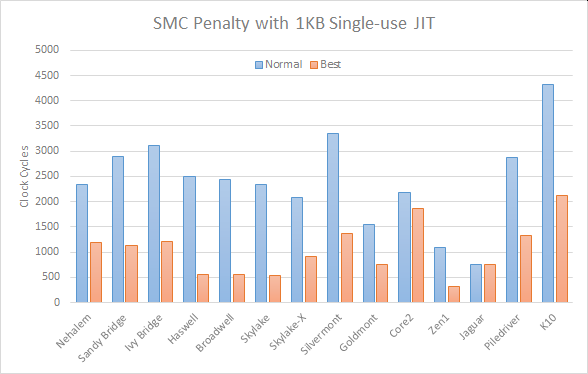
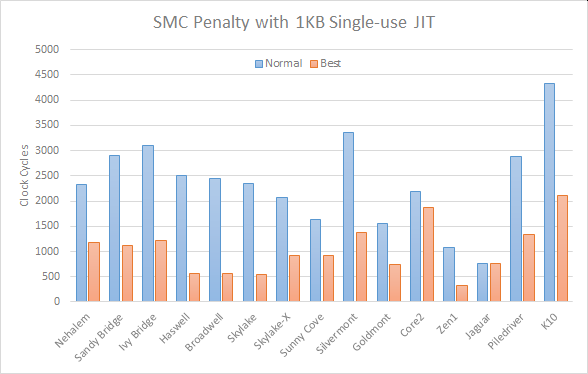
Add Sunny Cove results Thanks to 'anon' (https://www.realworldtech.com/forum/?threadid=192834&curpostid=193016)

diff --git a/README.md b/README.md
@@ -50,12 +50,13 @@ The results, listed below, vary significantly across processor micro-architectur
 
 ### Intel Core
 
-* Alternating between a number of regions, enough to exceed L1 cache size, appears to be the most effective technique ([`jit_16region`](https://github.com/animetosho/jit_smc_test/blob/62b4beb2120e1c3403e7c0f904c0c160434f4160/test.c#L633-L639)), however this could affect the performance of other code.
-* Clearing the target before writing code, is second most effective (slightly worse than above), particularly if you just clear one byte per cacheline ([`jit_clr_1byte`](https://github.com/animetosho/jit_smc_test/blob/62b4beb2120e1c3403e7c0f904c0c160434f4160/test.c#L373-L381))
-* `CLFLUSHOPT` is effective on Skylake/X ([`jit_clflushopt`](https://github.com/animetosho/jit_smc_test/blob/62b4beb2120e1c3403e7c0f904c0c160434f4160/test.c#L525-L533)). Pre-Skylake, copying is also effective ([`jit_memcpy*`](https://github.com/animetosho/jit_smc_test/blob/62b4beb2120e1c3403e7c0f904c0c160434f4160/test.c#L209-L326))
+* Alternating between a number of regions, enough to exceed L1 cache size, appears to be the most effective technique ([`jit_16region`](https://github.com/animetosho/jit_smc_test/blob/62b4beb2120e1c3403e7c0f904c0c160434f4160/test.c#L633-L639)), however this could affect the performance of other code
+* Clearing the target before writing code, is quite effective, and on pre Sunny Cove processors, clearing one byte per cacheline ([`jit_clr_1byte`](https://github.com/animetosho/jit_smc_test/blob/62b4beb2120e1c3403e7c0f904c0c160434f4160/test.c#L373-L381)) is the second most effective technique (slightly worse than above). On Sunny Cove, it seems that clearing the code using a 512-bit `VPSCATERDD` instruction ([`jit_clr_scatter`](https://github.com/animetosho/jit_smc_test/blob/149aaeb17aa240f318de59d978776d8e67c0e13d/test.c#L396-L410)) is the second most effective technique
+* `CLFLUSHOPT` ([`jit_clflushopt`](https://github.com/animetosho/jit_smc_test/blob/62b4beb2120e1c3403e7c0f904c0c160434f4160/test.c#L525-L533)) is effective on CPUs that support it (Skylake and later). Copying is also effective ([`jit_memcpy*`](https://github.com/animetosho/jit_smc_test/blob/62b4beb2120e1c3403e7c0f904c0c160434f4160/test.c#L209-L326))
+* On Sunny Cove, in addition to the `VPSCATERDD` clearing technique mentioned above, copying with 128-bit non-temporal writes ([jit_memcpy_sse2_nt](https://github.com/animetosho/jit_smc_test/blob/149aaeb17aa240f318de59d978776d8e67c0e13d/test.c#L262-L268)), and issuing `CLFLUSHOPT` seem to be roughly as effective. 256-bit and 512-bit non-temporal copies appear to perform worse than 128-bit
 * Clearing the instruction cache with jumps touching all the cachelines, seems to also be effective on Haswell and later ([`jit_jmp32k_unalign`](https://github.com/animetosho/jit_smc_test/blob/62b4beb2120e1c3403e7c0f904c0c160434f4160/test.c#L701-L707)). This may affect performance of other code as it effectively flushes out the instruction cache
 
-Raw results: [Nehalem](results/Nehalem.txt), [Sandy Bridge](<results/Sandy Bridge.txt>), [Ivy Bridge](<results/Ivy Bridge (win64).txt>), [Haswell](results/Haswell.txt), [Broadwell](<results/Broadwell (xen).txt>), [Skylake](results/Skylake.txt), [Skylake-X](<results/Skylake-X (win64).txt>)
+Raw results: [Nehalem](results/Nehalem.txt), [Sandy Bridge](<results/Sandy Bridge.txt>), [Ivy Bridge](<results/Ivy Bridge (win64).txt>), [Haswell](results/Haswell.txt), [Broadwell](<results/Broadwell (xen).txt>), [Skylake](results/Skylake.txt), [Skylake-X](<results/Skylake-X (win64).txt>), [Sunny Cove](<results/Sunny Cove (wsl2).txt>)
 
 ### Intel Atom
 
@@ -116,8 +117,10 @@ From the results I have (and speculation on my part for results I don’t have) 
 
 * If CPU is Intel Core (Nehalem or later):
   * Alternate between areas of memory (enough to be larger than L1 cache size), i.e. JIT to location 1, execute location 1, JIT to location 2, execute location 2 etc, and loop around ([`jit_16region`](https://github.com/animetosho/jit_smc_test/blob/62b4beb2120e1c3403e7c0f904c0c160434f4160/test.c#L633-L639))
-  * If the above is not possible, or the cache hit is unacceptable, clear 1 byte per 64-byte cacheline in the area to be written to, before actually writing instructions ([`jit_clr_1byte`](https://github.com/animetosho/jit_smc_test/blob/62b4beb2120e1c3403e7c0f904c0c160434f4160/test.c#L373-L381))
-* Else if CPU is Intel Atom, Intel Core2, AMD Family 15h or AMD K10:
+  * If the above is not possible, or the cache hit is unacceptable:
+    * if CPU is pre Sunny Cove (Nehalem through to Cannonlake): clear 1 byte per 64-byte cacheline in the area to be written to, before actually writing instructions ([`jit_clr_1byte`](https://github.com/animetosho/jit_smc_test/blob/62b4beb2120e1c3403e7c0f904c0c160434f4160/test.c#L373-L381))
+    * if CPU is Sunny Cove or later: follow the suggestion in the next point (copy code via 128-bit non-temporal writes)
+* Else if CPU is Intel Atom, Intel Core2, Intel Sunny Cove (or later), AMD Family 15h or AMD K10:
   * Write code to a temporary location, then copy to the destination using [non-temporal writes](https://stackoverflow.com/a/37092) ([`jit_memcpy_sse2_nt`](https://github.com/animetosho/jit_smc_test/blob/62b4beb2120e1c3403e7c0f904c0c160434f4160/test.c#L262-L268)). SSE1/2 writes are sufficient, as none of these CPUs have 256-bit load/store ports
 * Else if CPU is AMD Family 17h, 18h or newer AMD:
   * Write code to a temporary location, then copy to the destination (`REP MOVS` seems to be optimal ([`jit_memcpy_movsb`](https://github.com/animetosho/jit_smc_test/blob/62b4beb2120e1c3403e7c0f904c0c160434f4160/test.c#L218-L233)), but `memcpy` probably works fine too ([`jit_memcpy`](https://github.com/animetosho/jit_smc_test/blob/62b4beb2120e1c3403e7c0f904c0c160434f4160/test.c#L209-L215)))
@@ -143,3 +146,6 @@ Note that you may need to also add `-lrt` to the end, on some Linux distros.
 
 I’ve noticed significant variability in results when running the test. The code does try to cater for this, by running multiple trials and taking the fastest run, but it may be beneficial to set the CPU governor/power profile to Performance, and disabling turbo boost, before running the test. Note that I haven’t done this for any of the results though.
 
+## Thanks
+
+Thanks to posters who replied to [this RealWorldTechnologies forum thread](https://www.realworldtech.com/forum/?threadid=192834&curpostid=192834) for their assistance.
